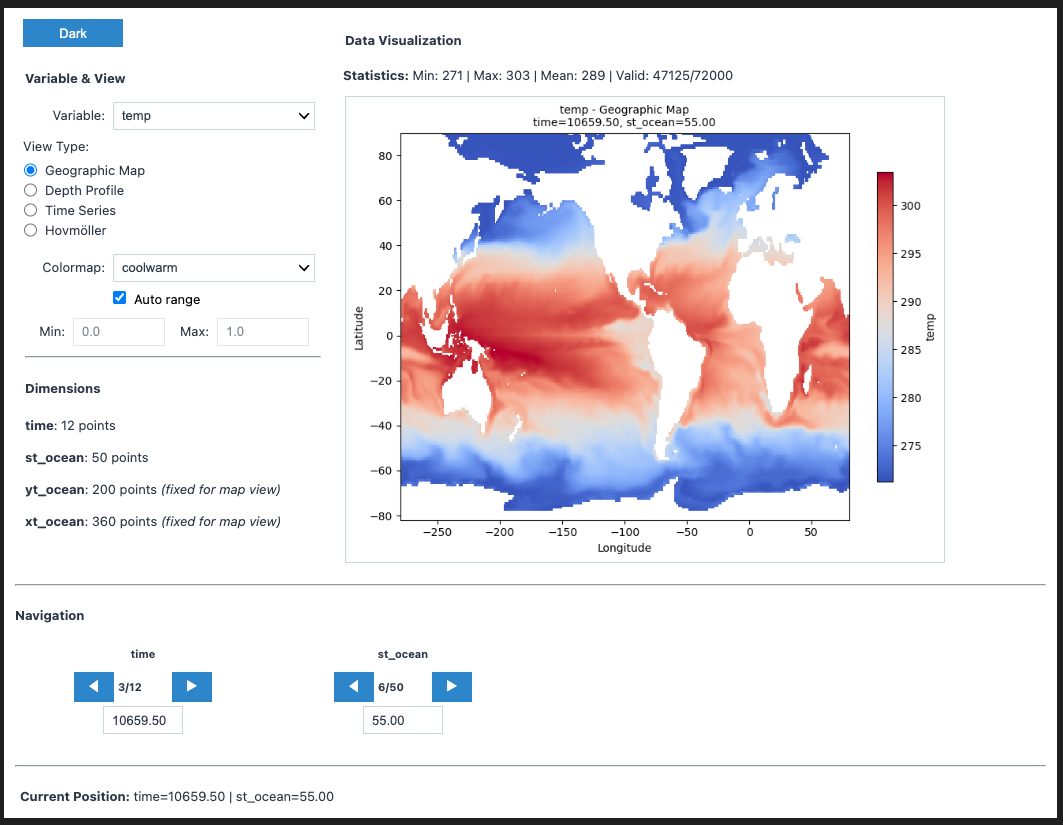
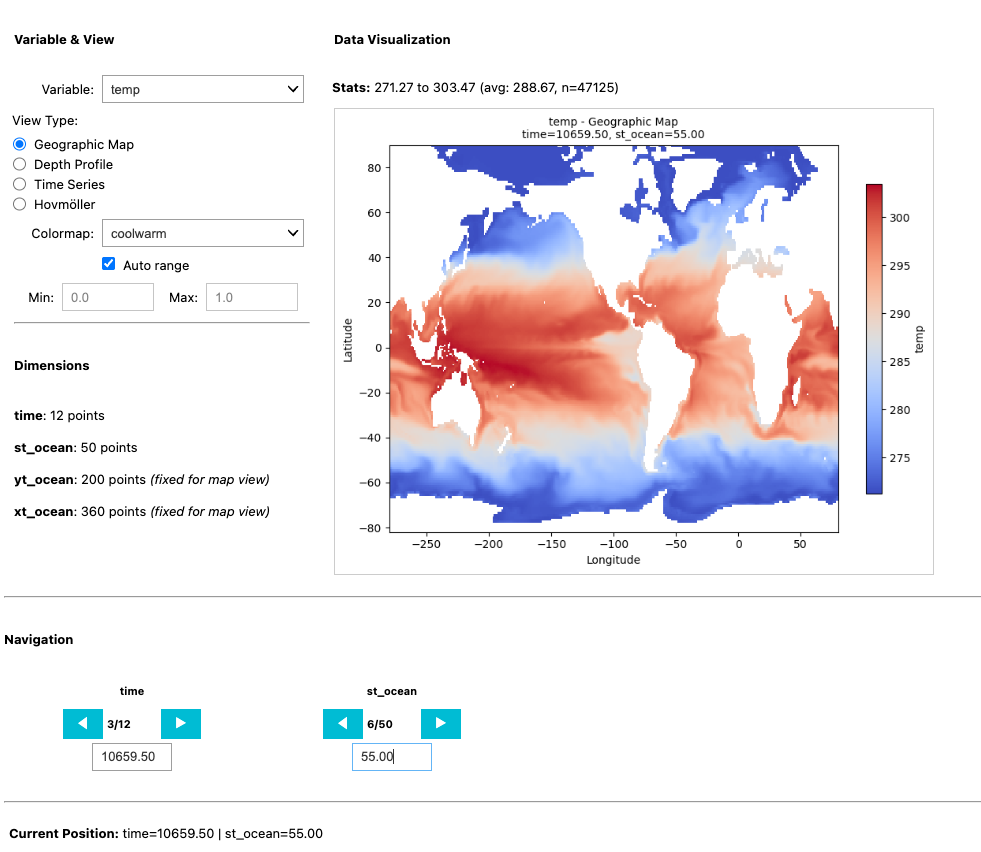
Updated README and example image

diff --git a/README.md b/README.md
@@ -9,7 +9,6 @@ A Python-based interactive netCDF viewer designed for Jupyter notebooks. Provide
 - **Four Plot Types**: Geographic maps, depth profiles, time series, Hovmöller diagrams
 - **Smart Navigation**: Previous/Next buttons with coordinate values and wrap-around
 - **Real-time Statistics**: Automatic min/max/mean updates and valid cells
-- **Theme Support**: Light and dark mode themes
 - **Manual Color Range**: Text-based range inputs for precise control
 - **Smart Validation**: Only shows valid plot types based on data dimensions
 
@@ -52,12 +51,8 @@ jupyter labextension install @jupyter-widgets/jupyterlab-manager
 # Basic usage
 viewer = pyview('your_file.nc')
 
-# With dark theme
-viewer = pyview('your_file.nc', dark_mode=True)
-
 # Custom dimension mapping
 viewer = pyview(file_path,
-                dark_mode=False,
                 dim_mapping={
                     'lat': 'yt_ocean',
                     'lon': 'xt_ocean',
